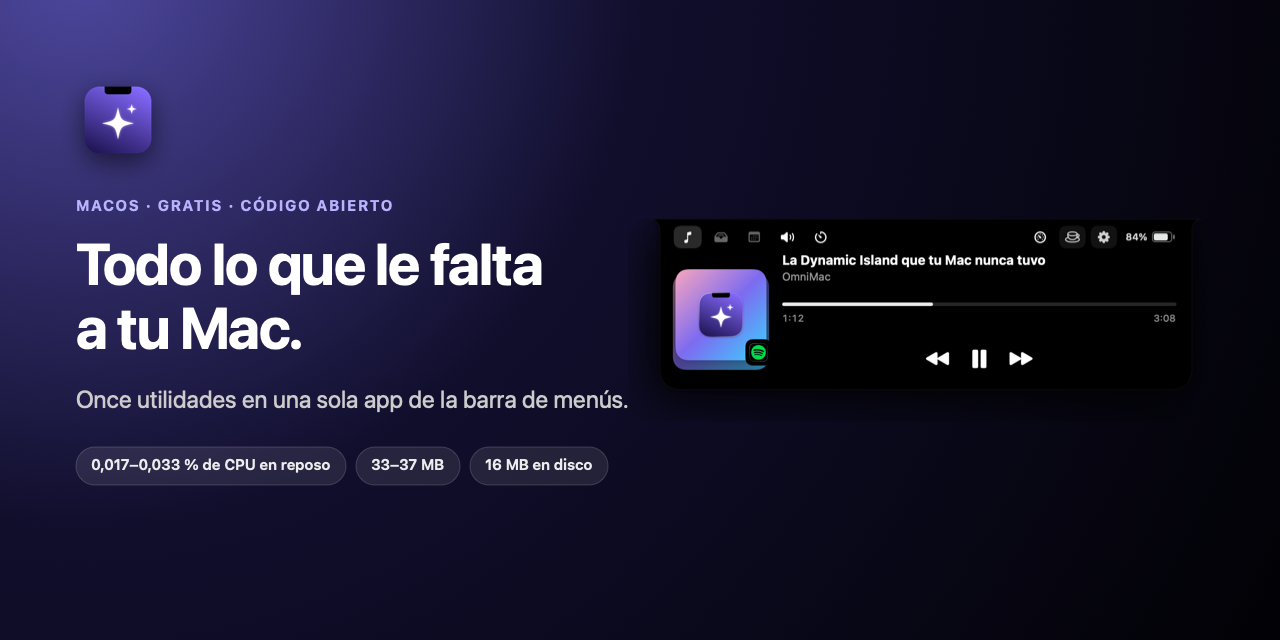
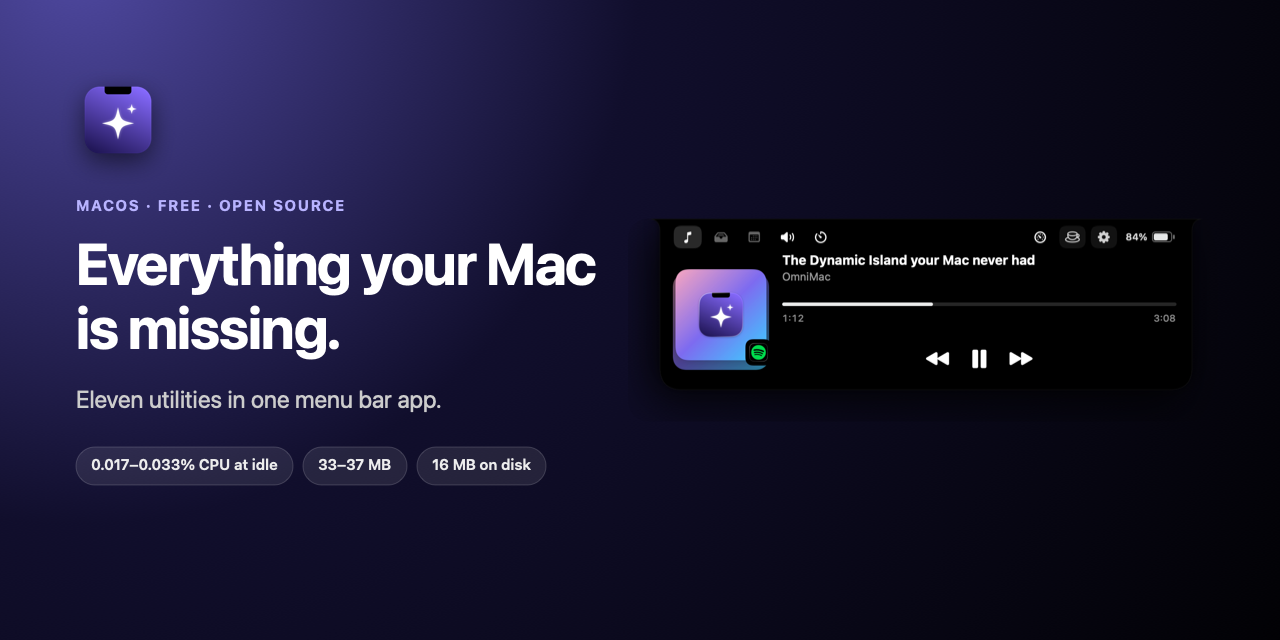
Web: tarjeta social por defecto en inglés
La tarjeta social por defecto (img/social-preview.png, la que sube GitHub y la
que captura cualquiera al compartir el enlace) pasa a ser la inglesa, en línea
con la página principal. La española se mueve a img/es/social-preview.png y la
usa la home /es/. Se actualizan og:image/twitter:image de cada idioma, el
generador scripts/dev/social.swift y docs/RELEASE.md. Las cifras no cambian.

diff --git a/docs/site/es/index.html b/docs/site/es/index.html
@@ -6,7 +6,7 @@
 <title>OmniMac — La Dynamic Island para cualquier Mac, también sin notch</title>
 <meta name="description" content="App de barra de menús para macOS, gratis y de código abierto: una Dynamic Island que funciona también en los Mac sin notch, volumen y ecualizador por app, atajos de ventanas, portapapeles, OCR. 0,017–0,033 % de CPU.">
[1 lines of base64/hex data omitted]
-<meta property="og:type" content="website"><meta property="og:url" content="https://bysergimm.github.io/OmniMac/es/"><meta property="og:title" content="OmniMac — La Dynamic Island para cualquier Mac, también sin notch"><meta property="og:description" content="Once utilidades más en una sola app de 16 MB. Gratis, código abierto, 0,017–0,033 % de CPU."><meta property="og:image" content="https://bysergimm.github.io/OmniMac/img/social-preview.png"><meta property="og:image:width" content="1280"><meta property="og:image:height" content="640"><meta property="og:locale" content="es_ES"><meta name="twitter:card" content="summary_large_image"><meta name="twitter:title" content="OmniMac — La Dynamic Island para cualquier Mac, también sin notch"><meta name="twitter:description" content="Once utilidades más en una sola app de 16 MB. Gratis, código abierto, 0,017–0,033 % de CPU."><meta name="twitter:image" content="https://bysergimm.github.io/OmniMac/img/social-preview.png">
+<meta property="og:type" content="website"><meta property="og:url" content="https://bysergimm.github.io/OmniMac/es/"><meta property="og:title" content="OmniMac — La Dynamic Island para cualquier Mac, también sin notch"><meta property="og:description" content="Once utilidades más en una sola app de 16 MB. Gratis, código abierto, 0,017–0,033 % de CPU."><meta property="og:image" content="https://bysergimm.github.io/OmniMac/img/es/social-preview.png"><meta property="og:image:width" content="1280"><meta property="og:image:height" content="640"><meta property="og:locale" content="es_ES"><meta name="twitter:card" content="summary_large_image"><meta name="twitter:title" content="OmniMac — La Dynamic Island para cualquier Mac, también sin notch"><meta name="twitter:description" content="Once utilidades más en una sola app de 16 MB. Gratis, código abierto, 0,017–0,033 % de CPU."><meta name="twitter:image" content="https://bysergimm.github.io/OmniMac/img/es/social-preview.png">
 <link rel="canonical" href="https://bysergimm.github.io/OmniMac/es/"><link rel="alternate" hreflang="es" href="https://bysergimm.github.io/OmniMac/es/"><link rel="alternate" hreflang="en" href="https://bysergimm.github.io/OmniMac/"><link rel="alternate" hreflang="x-default" href="https://bysergimm.github.io/OmniMac/">
 <script type="application/ld+json">{"@context":"https://schema.org","@type":"SoftwareApplication","name":"OmniMac","operatingSystem":"macOS 14.2 o posterior","applicationCategory":"UtilitiesApplication","offers":{"@type":"Offer","price":"0","priceCurrency":"EUR"},"license":"https://opensource.org/licenses/MIT","url":"https://bysergimm.github.io/OmniMac/es/","downloadUrl":"https://github.com/BySergiMM/OmniMac/releases/latest/download/OmniMac.pkg","author":{"@type":"Person","name":"Sergi (BySergiMM)","url":"https://github.com/BySergiMM"},"description":"Once utilidades para el Mac en una sola app ligera, gratis y de código abierto: una Dynamic Island que funciona también en los Mac sin notch, mantener despierto, ⌘Tab por ventanas, atajos de ventanas, portapapeles, utilidades (OCR, color, micrófono), sonido con volumen y ecualizador por app, monitor de rendimiento con temperatura, barra de menús, buscador de comandos y limpiador de apps."}</script>
 <style>

diff --git a/docs/site/index.html b/docs/site/index.html
@@ -6,7 +6,7 @@
 <title>OmniMac — Dynamic Island for any Mac, even without a notch</title>
 <meta name="description" content="Free, open-source macOS menu bar app: a Dynamic Island that works on Macs without a notch, per-app volume and equaliser, window layouts, clipboard, OCR. 0.017–0.033 % CPU.">
[1 lines of base64/hex data omitted]
-<meta property="og:type" content="website"><meta property="og:url" content="https://bysergimm.github.io/OmniMac/"><meta property="og:title" content="OmniMac — Dynamic Island for any Mac, even without a notch"><meta property="og:description" content="Eleven more utilities in one 16 MB menu bar app. Free, open source, 0.017–0.033 % CPU."><meta property="og:image" content="https://bysergimm.github.io/OmniMac/img/en/social-preview.png"><meta property="og:image:width" content="1280"><meta property="og:image:height" content="640"><meta property="og:locale" content="en_US"><meta name="twitter:card" content="summary_large_image"><meta name="twitter:title" content="OmniMac — Dynamic Island for any Mac, even without a notch"><meta name="twitter:description" content="Eleven more utilities in one 16 MB menu bar app. Free, open source, 0.017–0.033 % CPU."><meta name="twitter:image" content="https://bysergimm.github.io/OmniMac/img/en/social-preview.png">
+<meta property="og:type" content="website"><meta property="og:url" content="https://bysergimm.github.io/OmniMac/"><meta property="og:title" content="OmniMac — Dynamic Island for any Mac, even without a notch"><meta property="og:description" content="Eleven more utilities in one 16 MB menu bar app. Free, open source, 0.017–0.033 % CPU."><meta property="og:image" content="https://bysergimm.github.io/OmniMac/img/social-preview.png"><meta property="og:image:width" content="1280"><meta property="og:image:height" content="640"><meta property="og:locale" content="en_US"><meta name="twitter:card" content="summary_large_image"><meta name="twitter:title" content="OmniMac — Dynamic Island for any Mac, even without a notch"><meta name="twitter:description" content="Eleven more utilities in one 16 MB menu bar app. Free, open source, 0.017–0.033 % CPU."><meta name="twitter:image" content="https://bysergimm.github.io/OmniMac/img/social-preview.png">
 <link rel="canonical" href="https://bysergimm.github.io/OmniMac/"><link rel="alternate" hreflang="es" href="https://bysergimm.github.io/OmniMac/es/"><link rel="alternate" hreflang="en" href="https://bysergimm.github.io/OmniMac/"><link rel="alternate" hreflang="x-default" href="https://bysergimm.github.io/OmniMac/">
 <script type="application/ld+json">{"@context":"https://schema.org","@type":"SoftwareApplication","name":"OmniMac","operatingSystem":"macOS 14.2 or later","applicationCategory":"UtilitiesApplication","offers":{"@type":"Offer","price":"0","priceCurrency":"EUR"},"license":"https://opensource.org/licenses/MIT","url":"https://bysergimm.github.io/OmniMac/","downloadUrl":"https://github.com/BySergiMM/OmniMac/releases/latest/download/OmniMac.pkg","author":{"@type":"Person","name":"Sergi (BySergiMM)","url":"https://github.com/BySergiMM"},"description":"Eleven Mac utilities in one light, free and open-source app: a Dynamic Island that works on Macs without a notch, keep awake, ⌘Tab by windows, window shortcuts, clipboard, tools (OCR, colour picker, microphone), sound with per-app volume and equaliser, a performance monitor with temperature, a menu bar hider, a command bar and an app cleaner."}</script>
 <style>

diff --git a/scripts/dev/social.swift b/scripts/dev/social.swift
@@ -6,8 +6,8 @@ import AppKit
 // Se hacía a mano recortando el hero de la web, y por eso se quedó en español y
 // anunciando siete módulos cuando ya eran once. Ahora se genera:
 //
-//   swift scripts/dev/social.swift es docs/site/img/social-preview.png
-//   swift scripts/dev/social.swift en docs/site/img/en/social-preview.png
+//   swift scripts/dev/social.swift en docs/site/img/social-preview.png   (por defecto, la del repo)
+//   swift scripts/dev/social.swift es docs/site/img/es/social-preview.png
 //
 // Al subir de versión hay que volver a lanzarla (está en docs/RELEASE.md).
 

diff --git a/docs/RELEASE.md b/docs/RELEASE.md
@@ -71,13 +71,14 @@ Y cada varios meses, o cuando alguna de ellas saque versión mayor:
 - [ ] Páginas de comparación (`docs/site/vs`): `python3 docs/site/tools/make_vs.py`.
 - [ ] `sitemap.xml` con las páginas nuevas y la fecha.
 - [ ] Que las etiquetas Open Graph de las dos versiones digan lo suyo: la raíz está en
-      español y `/en/` en inglés (si se comparte la raíz con angloparlantes, la tarjeta
-      sale en español).
+      inglés y `/es/` en español. La tarjeta por defecto (`img/social-preview.png`, la que
+      sube GitHub y la que captura cualquiera al compartir) es la inglesa; `/es/` usa
+      `img/es/social-preview.png`.
 - [ ] **Tarjeta social**, que lleva el número de módulos y las cifras de consumo
       escritos dentro de la imagen y por eso caduca sin que se note:
 
-      swift scripts/dev/social.swift es docs/site/img/social-preview.png
-      swift scripts/dev/social.swift en docs/site/img/en/social-preview.png
+      swift scripts/dev/social.swift en docs/site/img/social-preview.png
+      swift scripts/dev/social.swift es docs/site/img/es/social-preview.png
 
       Los textos están arriba del guion: número de módulos, CPU en reposo, memoria y
       disco. Súbela también a GitHub › Settings › General › **Social preview** — eso
